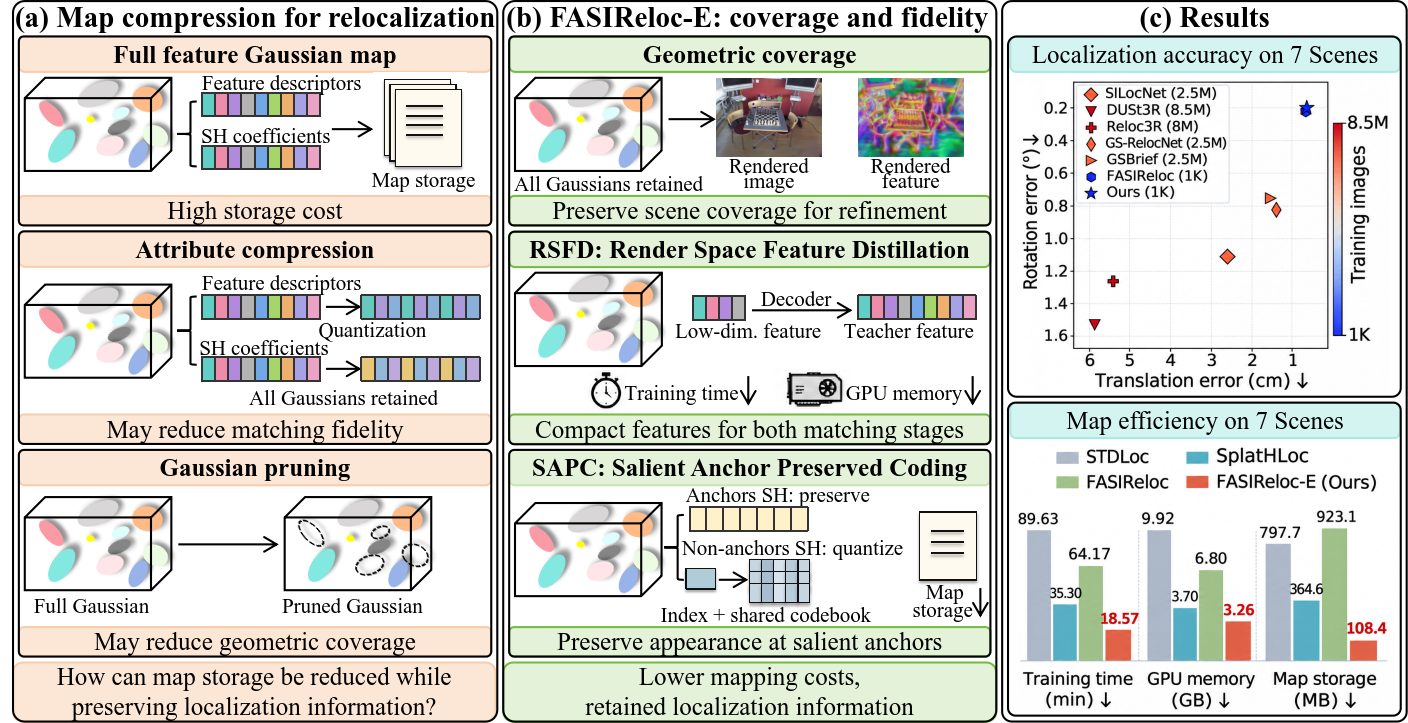
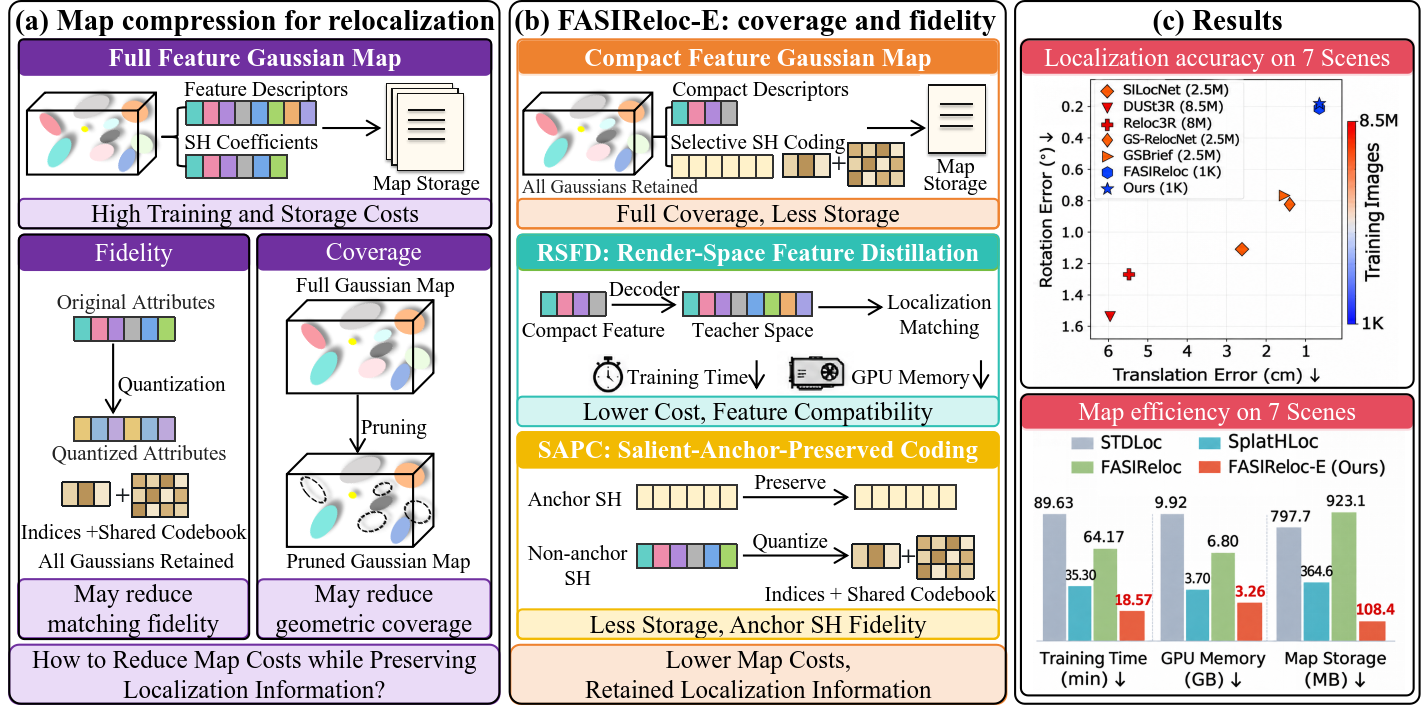
update

diff --git a/README.md b/README.md
@@ -17,7 +17,7 @@ Compact localization descriptors are preserved without further vector quantizati
 A pretrained JamMa matcher supports dense correspondence refinement.
 The SSNet saliency predictor transfers to unseen scenes without fine-tuning, whereas Gaussian maps and feature decoders are optimized separately for each target scene.
 Experiments on four benchmarks demonstrate competitive localization accuracy with substantially improved representation efficiency.
-Ablations show that RSFD maintains reliable matching at both stages and that retaining non-anchor Gaussians with quantized SH provides higher pose recall than pruning at comparable map sizes.
+Ablations reveal a favorable storage-accuracy trade-off and show that retaining non-anchor Gaussians with quantized SH yields higher pose recall than pruning at comparable map sizes.
 On 7 Scenes, FASIReloc-E reduces Gaussian optimization time, peak training GPU memory, and map storage by 71.1%, 52.1%, and 88.3%, respectively, compared with FASIReloc, while improving full-system recall at (2 cm, 2°) from 93.47% to 95.23%.
 
 
